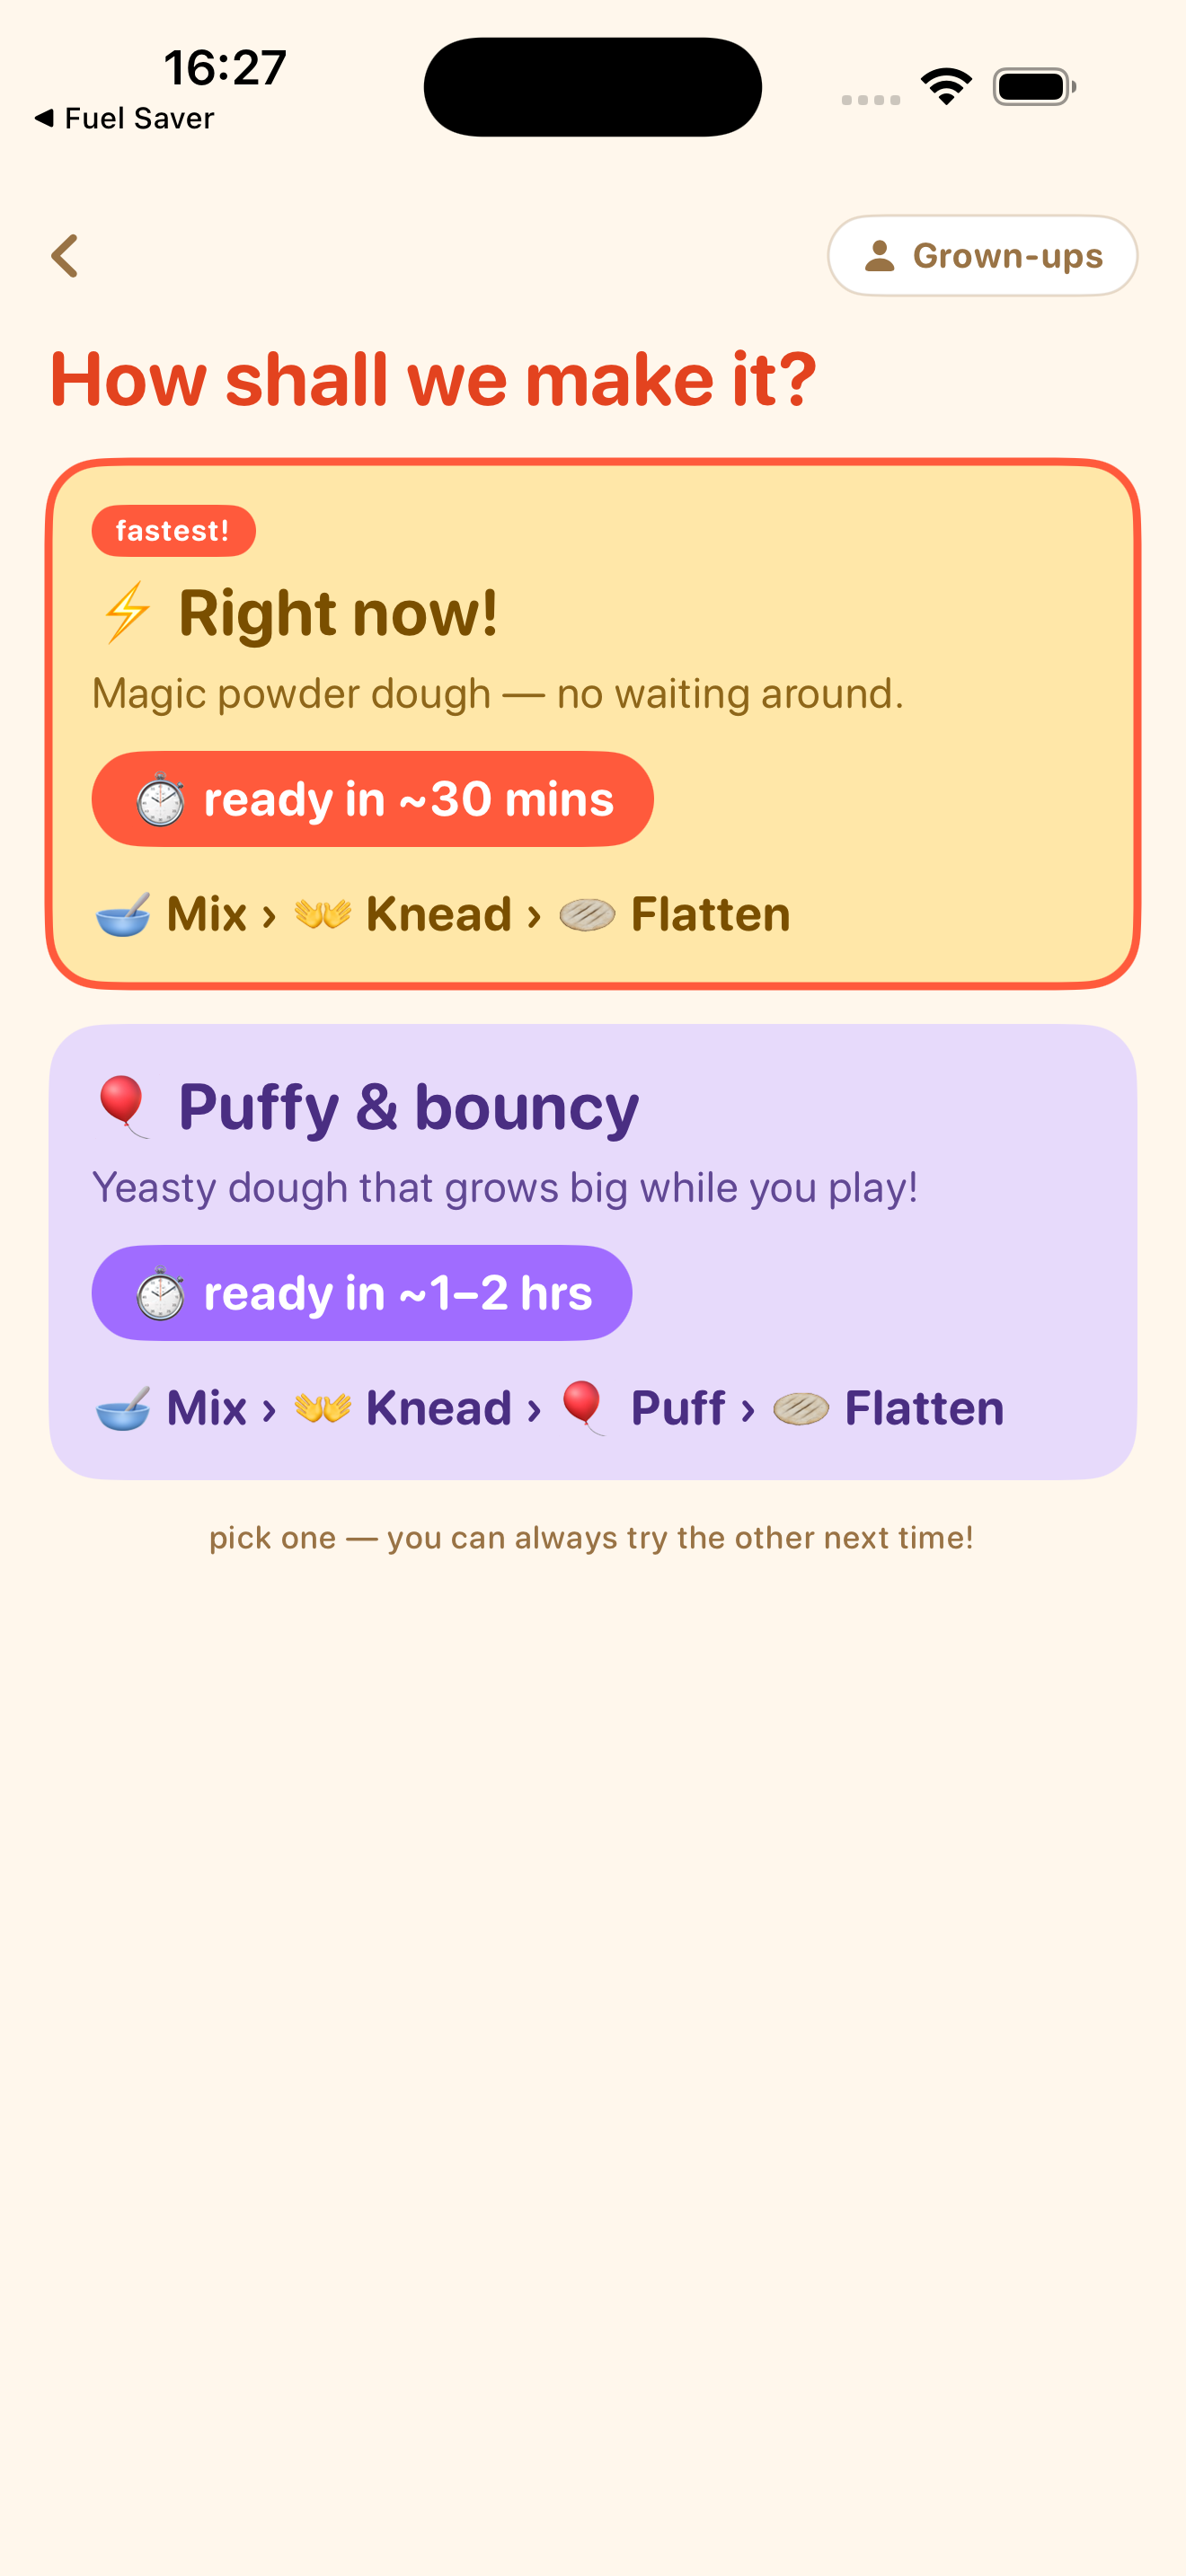
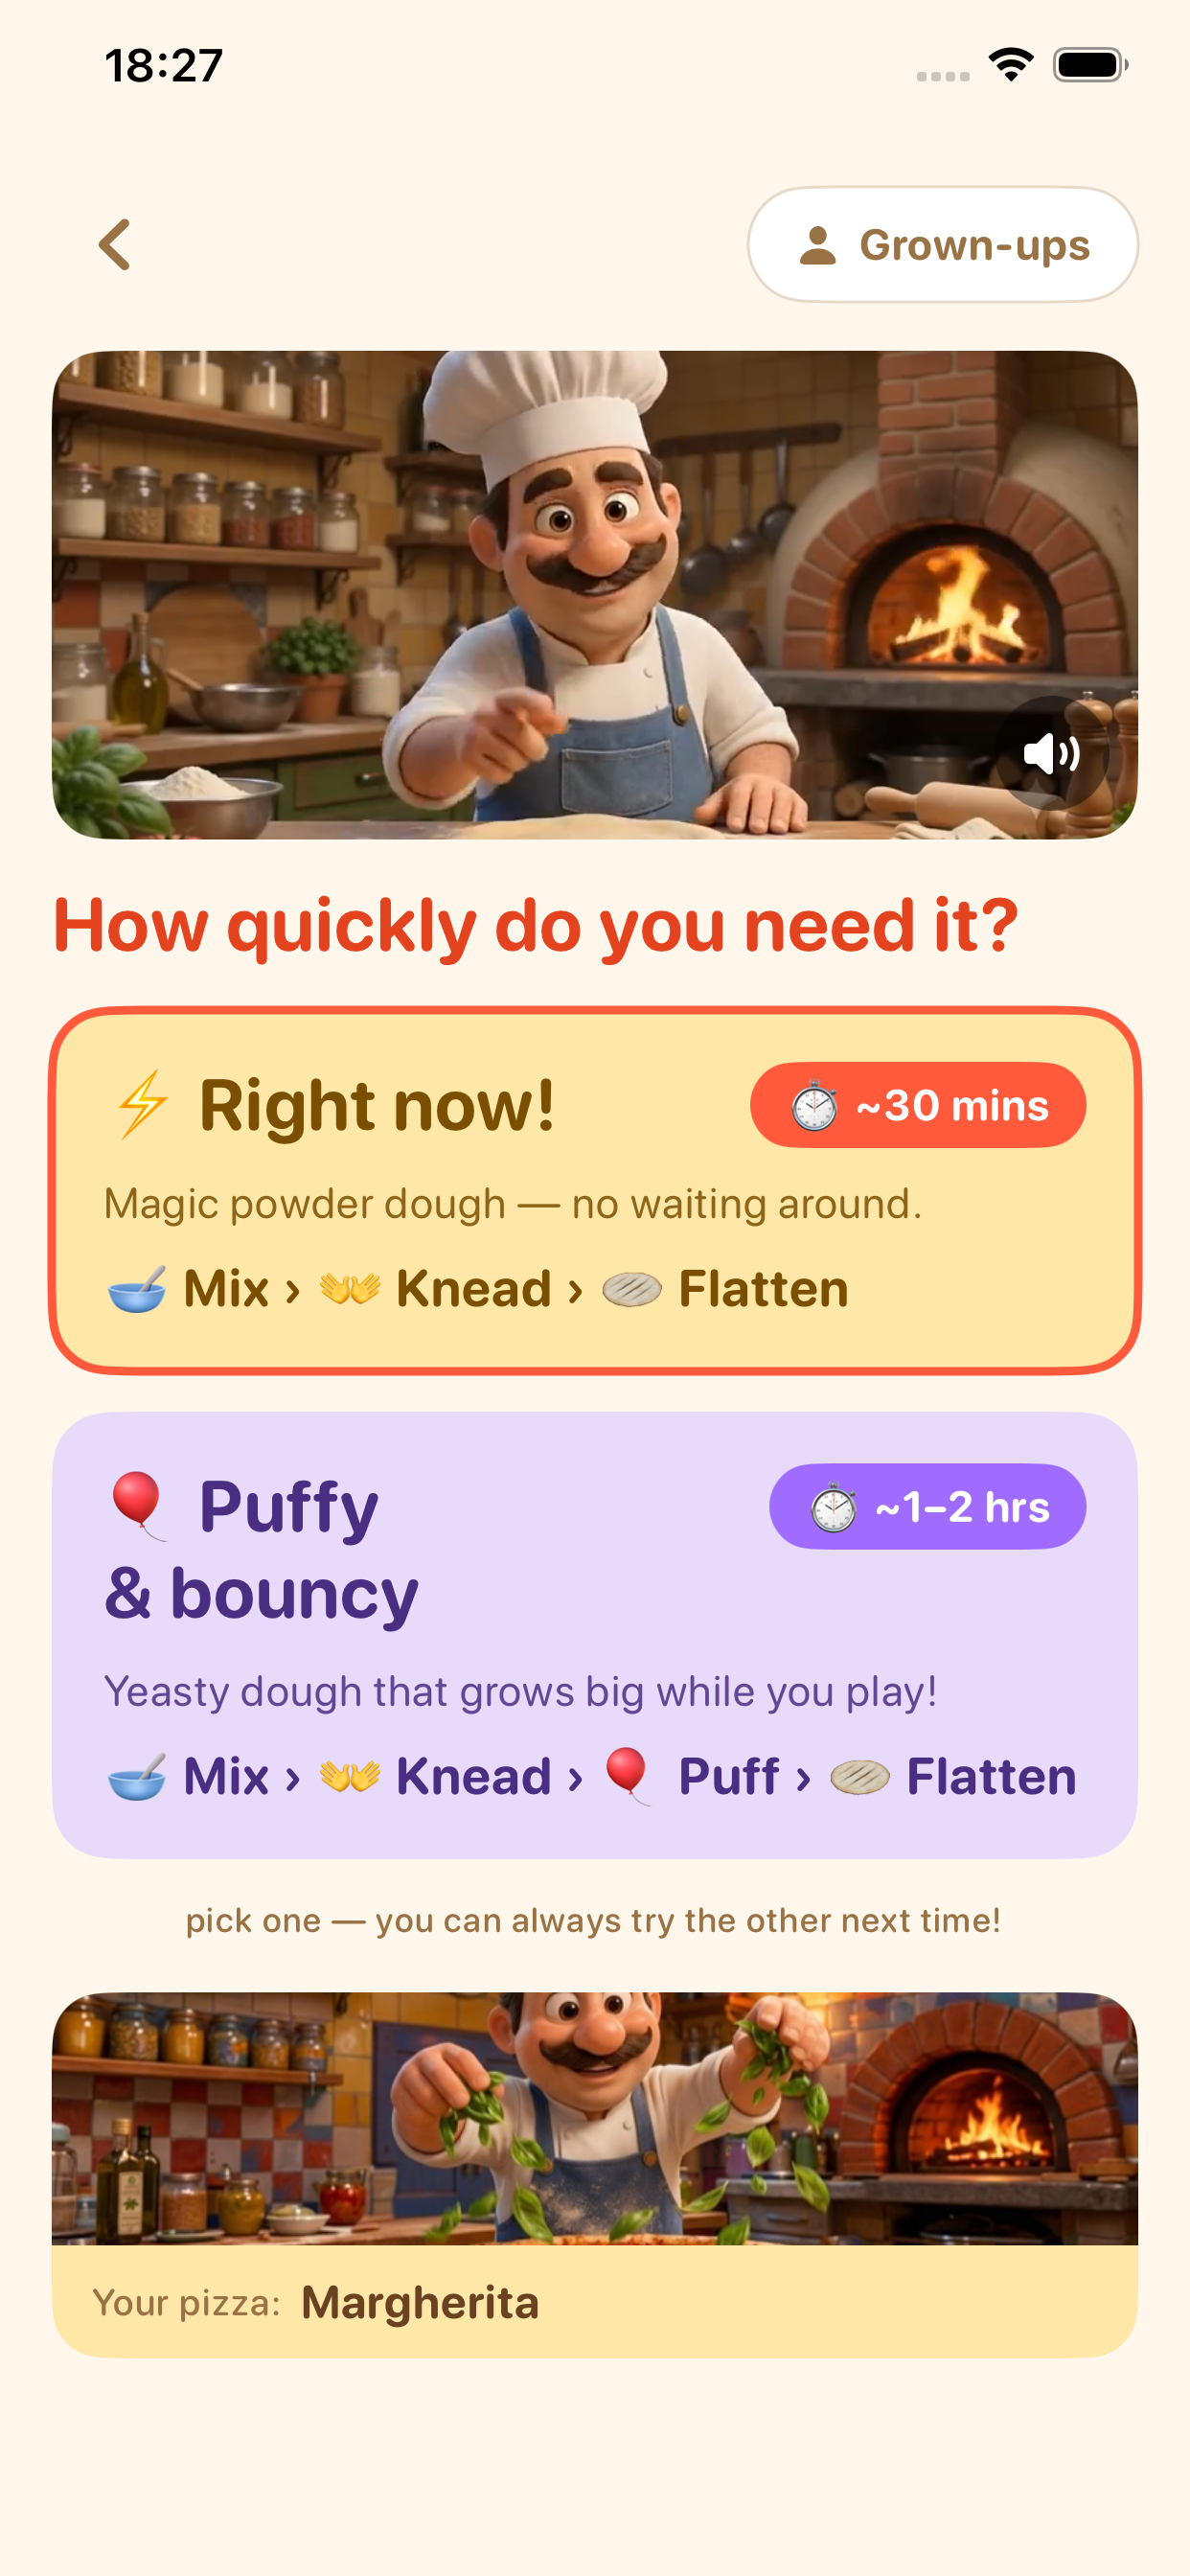
App Store: recapture Kid Mode screenshots against build 38
Fresh 1242x2688 captures of Pick your pizza, dough choice, an
animated cooking step, and the new mode-picker tiles — the old
set was stale (28 Jun, pre mini-tile picker/step videos).

diff --git a/APP_STORE_SUBMISSION.md b/APP_STORE_SUBMISSION.md
@@ -1,7 +1,7 @@
 # Kneady Pizza — App Store submission pack
 
 App: **Kneady Pizza** · Bundle ID `com.daviddefranceski.kneadypizza` · Team `L9SAXP2E2W`
-Version **1.1** · Build **38+** (iPhone-only, bump past 37 before archiving — see §4) · Primary language: English (Australia or US — pick one below)
+Version **1.1** · Build **38** (iPhone-only) · Primary language: English (Australia or US — pick one below)
 
 ---
 
@@ -125,11 +125,9 @@ Answer the questionnaire:
 
 ## 4. Build, pricing, availability
 
-- **Build:** the last CLI archive/upload was **1.1 (37)** — but several commits landed *after* that
-  (mini-tile mode picker, video loop cap, mushroom/nutella/banana/peppers topping videos) that build 37
-  doesn't contain, and TestFlight rejects re-uploading a duplicate build number anyway. **Bump
-  `CURRENT_PROJECT_VERSION` to 38**, re-run the CLI archive (see the workflow doc in memory, or ask
-  Claude — same command as every prior build), upload it, then select **1.1 (38)** here once it finishes
+- **Build:** **1.1 (38)** — archived 2 Jul 2026, contains the mini-tile mode picker, video loop cap, and
+  mushroom/nutella/banana/peppers topping videos that build 37 was missing. Upload it from Organizer
+  (Distribute App → TestFlight & App Store → Upload), then select **1.1 (38)** here once it finishes
   processing (watch for the email).
 - **Price:** Free (Tier 0) unless you intend to charge.
 - **Availability:** all territories (or restrict if you like).
@@ -158,13 +156,13 @@ Answer the questionnaire:
 3. Landscape cooking mode — one big step (the standout feature).
 4. Pizza & topping planner — the shopping list.
 5. A proof choice / setup screen (Quick / Cold / Warm).
-6. Kid Mode — the "Pick your pizza!" screen.
-7. Kid Mode — a big animated step (with video).
-8. The MODE picker in the menu (Kid / Villager / Pizzaiolo / Roman tiles).
+6. Kid Mode — the "Pick your pizza!" screen. → `appstore/screenshots/kid-1-pick.png`
+7. Kid Mode — "How quickly do you need it?" dough choice. → `appstore/screenshots/kid-2-choose-dough.png`
+8. Kid Mode — a big animated step (with video). → `appstore/screenshots/kid-3-mix.png`
 
-> `appstore/screenshots/kid-1-pick.png`, `kid-2-choose-dough.png`, `kid-3-mix.png` were captured 28 Jun
-> and are now stale — the UI has since changed (bigger dough cards, step videos, mini-tile mode
-> picker). Recapture before uploading.
+> `appstore/screenshots/kid-4-mode-picker.png` (the MODE tile picker in the menu) is also available as
+> a bonus/optional 9th shot. All four were recaptured 2 Jul 2026 at 1242×2688 against build 38 — current
+> with the latest Kid Mode UI.
 
 **How to capture (easiest, correct resolution):**
 1. Open the project in Xcode → run on **iPhone 17 Pro Max** simulator (6.9"). The app is iPhone-only, so no iPad capture is needed.
@@ -183,8 +181,8 @@ Ask Claude to drive the simulator and capture the full set if you'd rather not d
 2. If there's no 1.1 version yet: **(＋) next to "iOS App" → create version 1.1**.
 3. Fill **App Information** (section 1) — name, subtitle, categories, content rights (unchanged since 1.0, but check they're still correct).
 4. In the **1.1 version page** fill: promotional text, description, keywords, what's new, support/marketing/privacy URLs, copyright (section 2).
-5. Upload **screenshots** (section 6) to each required size slot — including fresh Kid Mode shots.
-6. **Build:** cut a fresh build first (see the ⚠️ note in section 4 — build 37 is stale), then scroll to "Build", click **(＋)**, choose **1.1 (38)** once it's finished processing. (Answer export-compliance if prompted — it won't be, given the plist flag.)
+5. Upload **screenshots** (section 6) to each required size slot — `appstore/screenshots/kid-*.png` are ready.
+6. **Build:** upload **1.1 (38)** from Organizer if you haven't already, then scroll to "Build", click **(＋)**, choose **1.1 (38)** once it's finished processing. (Answer export-compliance if prompted — it won't be, given the plist flag.)
 7. **App Privacy** (section 3) — re-check the questionnaire is still accurate (no new data collection in 1.1) and **Publish**.
 8. Set **Pricing and Availability** (section 4).
 9. **App Review Information** (section 5) — make sure the Kid Mode note is included.